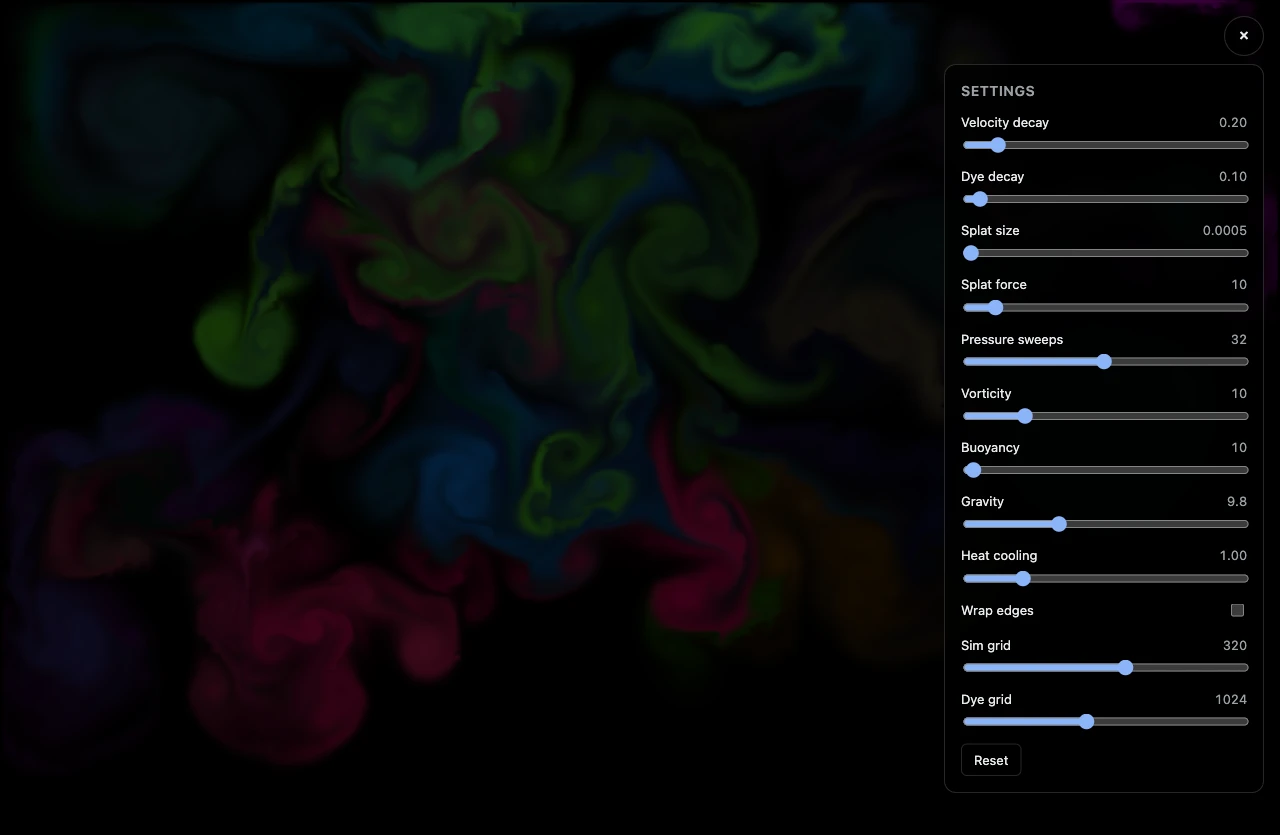
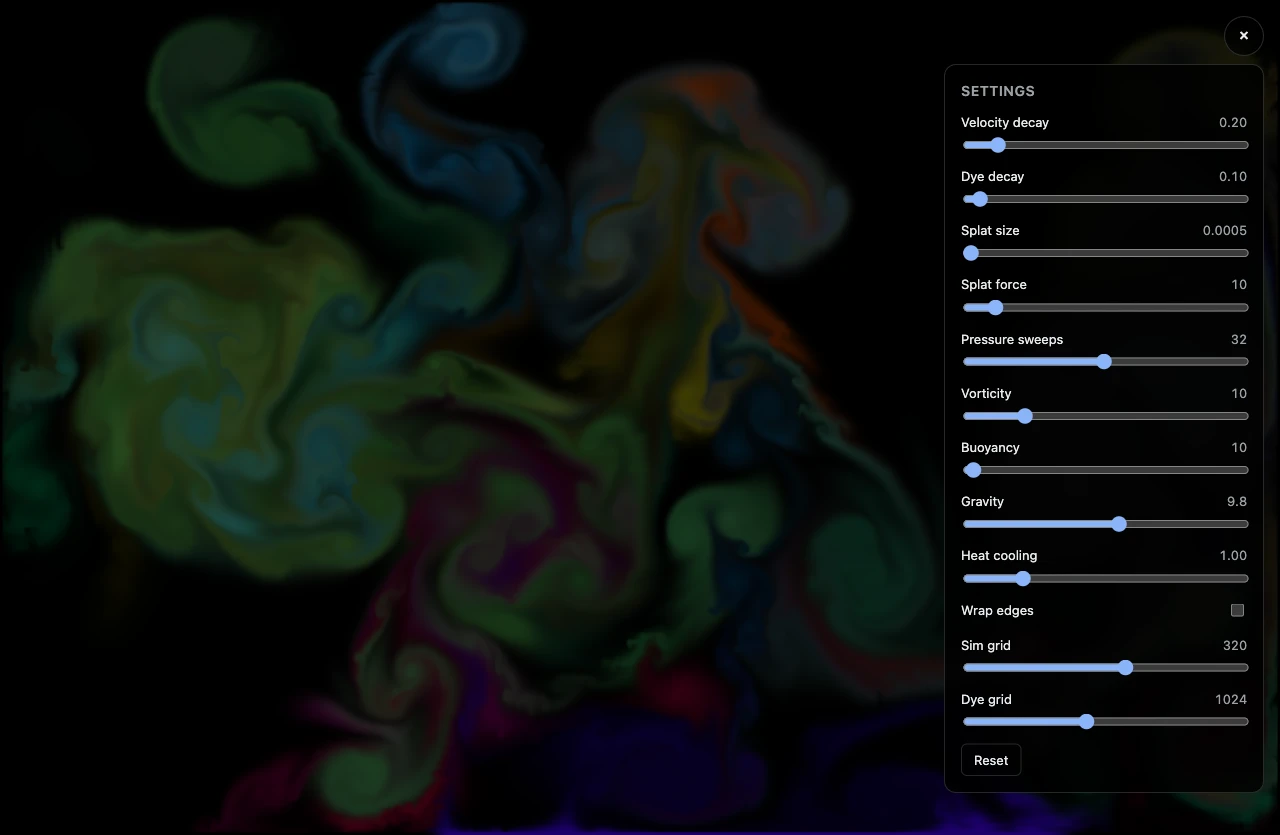
feat: let Gravity run from -100 to 100 so a negative value sinks hot dye

diff --git a/src/fluid/settings.test.ts b/src/fluid/settings.test.ts
@@ -71,10 +71,11 @@ describe("normaliseSettings", () => {
     expect(clampSetting("buoyancy", 1e6)).toBe(1000);
   });
 
-  it("lets gravity reach zero, which switches the lift off", () => {
+  it("lets gravity run from -100 to 100, through zero, which switches the lift off", () => {
     expect(clampSetting("gravity", 0)).toBe(0);
-    expect(clampSetting("gravity", -3)).toBe(0);
-    expect(clampSetting("gravity", 1e6)).toBe(30);
+    expect(clampSetting("gravity", -3)).toBe(-3);
+    expect(clampSetting("gravity", -1e6)).toBe(-100);
+    expect(clampSetting("gravity", 1e6)).toBe(100);
   });
 
   it("defaults gravity to Earth's surface value, also for a blob that predates it", () => {
@@ -163,6 +164,10 @@ describe("liftStrength", () => {
   it("scales with gravity and with buoyancy", () => {
     expect(liftStrength({ buoyancy: 10, gravity: 19.6 })).toBeCloseTo(20, 10);
     expect(liftStrength({ buoyancy: 500, gravity: 9.8 })).toBeCloseTo(500, 10);
+  });
+
+  it("is negative for a negative gravity, which reverses the lift", () => {
+    expect(liftStrength({ buoyancy: 10, gravity: -9.8 })).toBeCloseTo(-10, 10);
   });
 
   it("is zero when either factor is zero, which skips the pass", () => {

diff --git a/e2e-tests/index.spec.ts b/e2e-tests/index.spec.ts
@@ -417,7 +417,7 @@ test.describe("fluid canvas", () => {
     expect(wrapped).toBeGreaterThan(10);
   });
 
-  test("lifts hot dye toward the top of the screen only when buoyancy and gravity are above zero", async ({
+  test("lifts hot dye toward the top of the screen only when buoyancy and gravity are above zero, and sinks it for a negative gravity", async ({
     page,
   }) => {
     test.setTimeout(180_000);
@@ -449,10 +449,12 @@ test.describe("fluid canvas", () => {
     const still = await upwardShare("0");
     const lifted = await upwardShare("100");
     const weightless = await upwardShare("100", "0");
+    const sunk = await upwardShare("100", "-9.8");
 
     // 0.05 is chosen empirically, no fixed source.
     expect(lifted - still).toBeGreaterThan(0.05);
     expect(lifted - weightless).toBeGreaterThan(0.05);
+    expect(weightless - sunk).toBeGreaterThan(0.05);
   });
 
   test("paints the seed burst before any input", async ({ page }) => {

diff --git a/src/fluid/frame.test.ts b/src/fluid/frame.test.ts
@@ -199,6 +199,10 @@ describe("encodeFrame's buoyancy", () => {
       "buoyancy",
     );
   });
+
+  it("runs the pass at a negative strength, which sinks hot dye", () => {
+    expect(encode(0, -10).map(([pipeline]) => pipeline)).toContain("buoyancy");
+  });
 });
 
 describe("encodeFrame's GPU timing", () => {

diff --git a/src/fluid/settings.ts b/src/fluid/settings.ts
@@ -111,8 +111,8 @@ export const SETTING_DESCRIPTORS: readonly SettingDescriptor<
   {
     key: "gravity",
     label: "Gravity",
-    min: 0,
-    max: 30,
+    min: -100,
+    max: 100,
     step: 0.1,
     precision: 1,
   },

diff --git a/src/fluid/frame.ts b/src/fluid/frame.ts
@@ -86,7 +86,7 @@ export const encodeFrame = ({
     velocity.swap();
   }
 
-  if (buoyancy > 0) {
+  if (buoyancy !== 0) {
     run(
       pipelines.buoyancy,
       resources.buoyancyPass[velocity.readFace][dye.readFace],

diff --git a/README.md b/README.md
@@ -97,7 +97,8 @@ cells along the up direction, which follows the device's gravity reading
 (rotated by the screen's orientation and smoothed) and points up the screen
 when there is none. On iOS Safari the motion permission is requested on the
 first pointer release. The lift is the buoyancy setting scaled by the gravity
-setting over Earth's 9.8 m/s², so the default gravity leaves buoyancy alone.
+setting over Earth's 9.8 m/s², so the default gravity leaves buoyancy alone and a
+negative gravity sinks the hot dye.
 `buoyancy.test.ts` checks the lift on the CPU, and a lift of 0 (either setting
 at 0) skips the pass.
 
